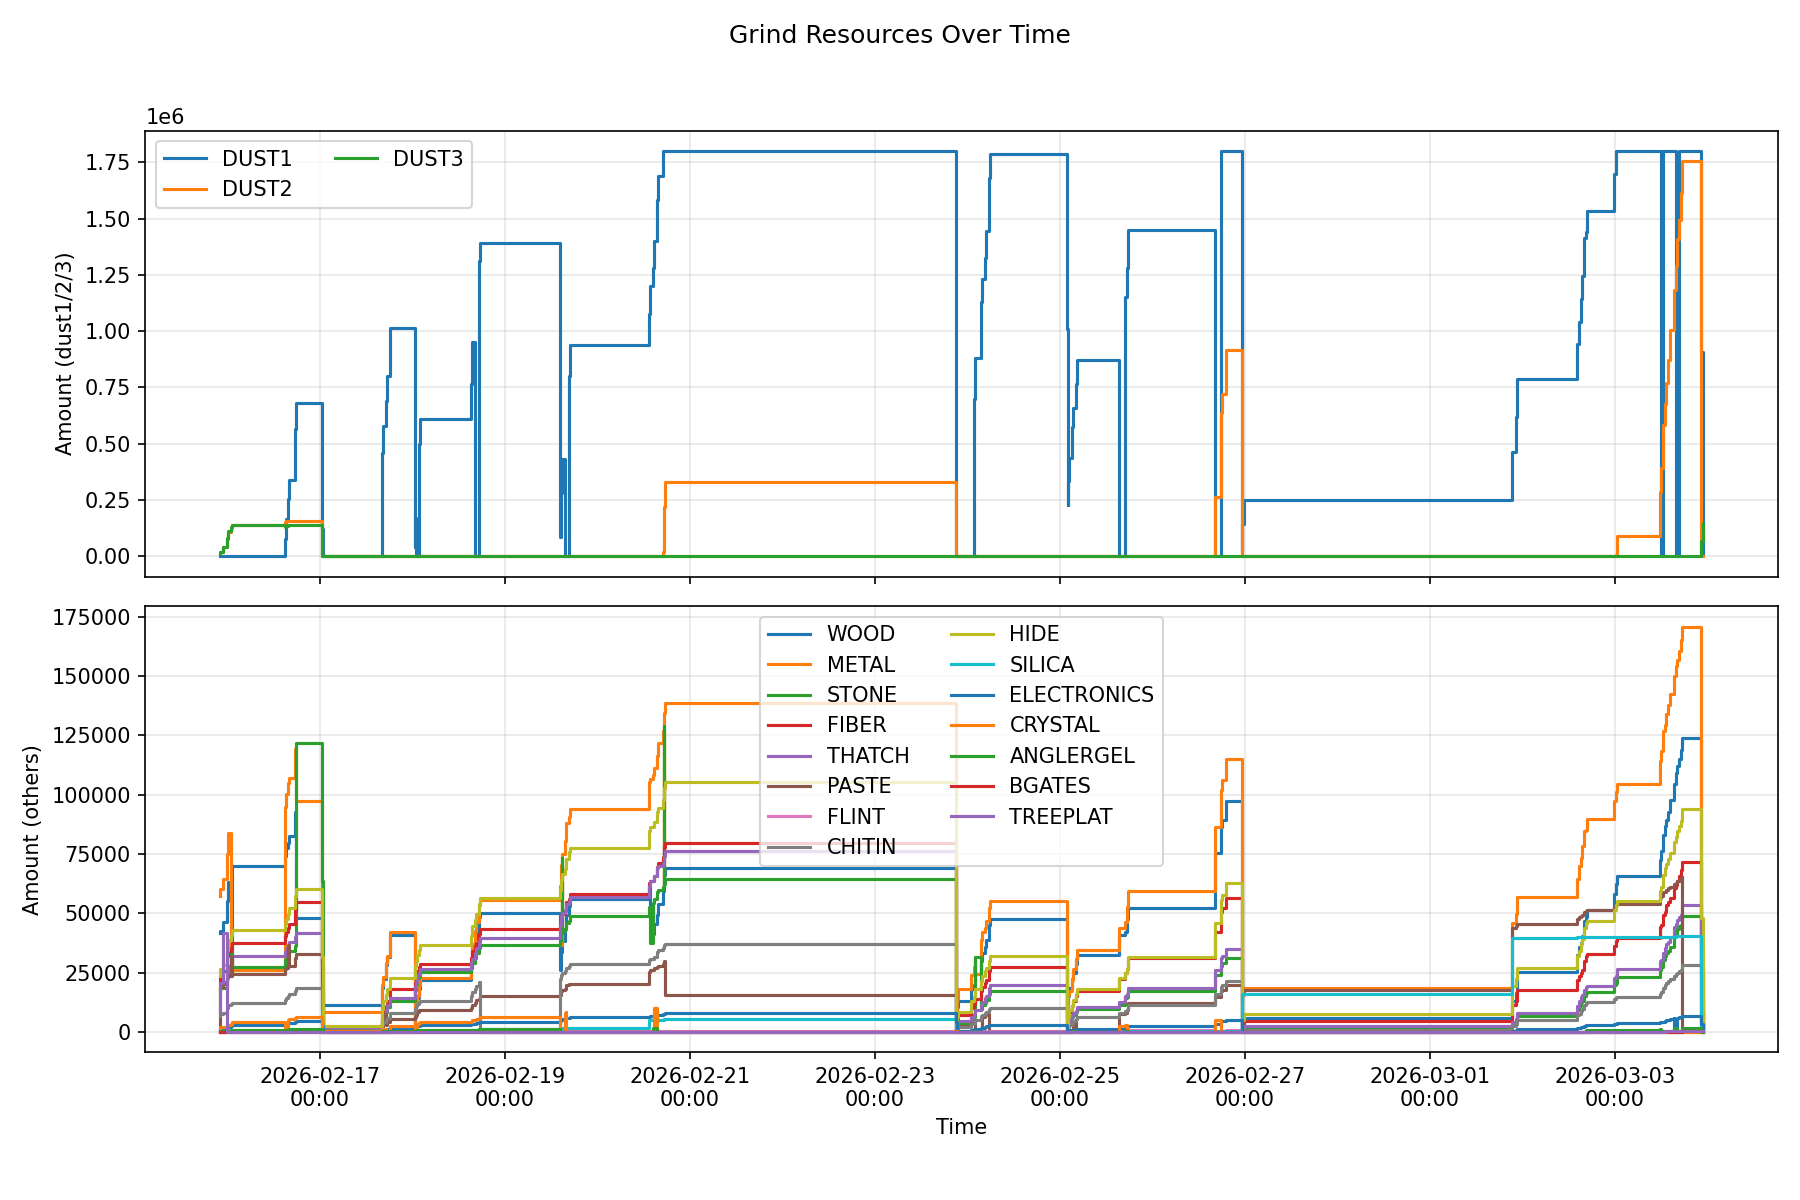
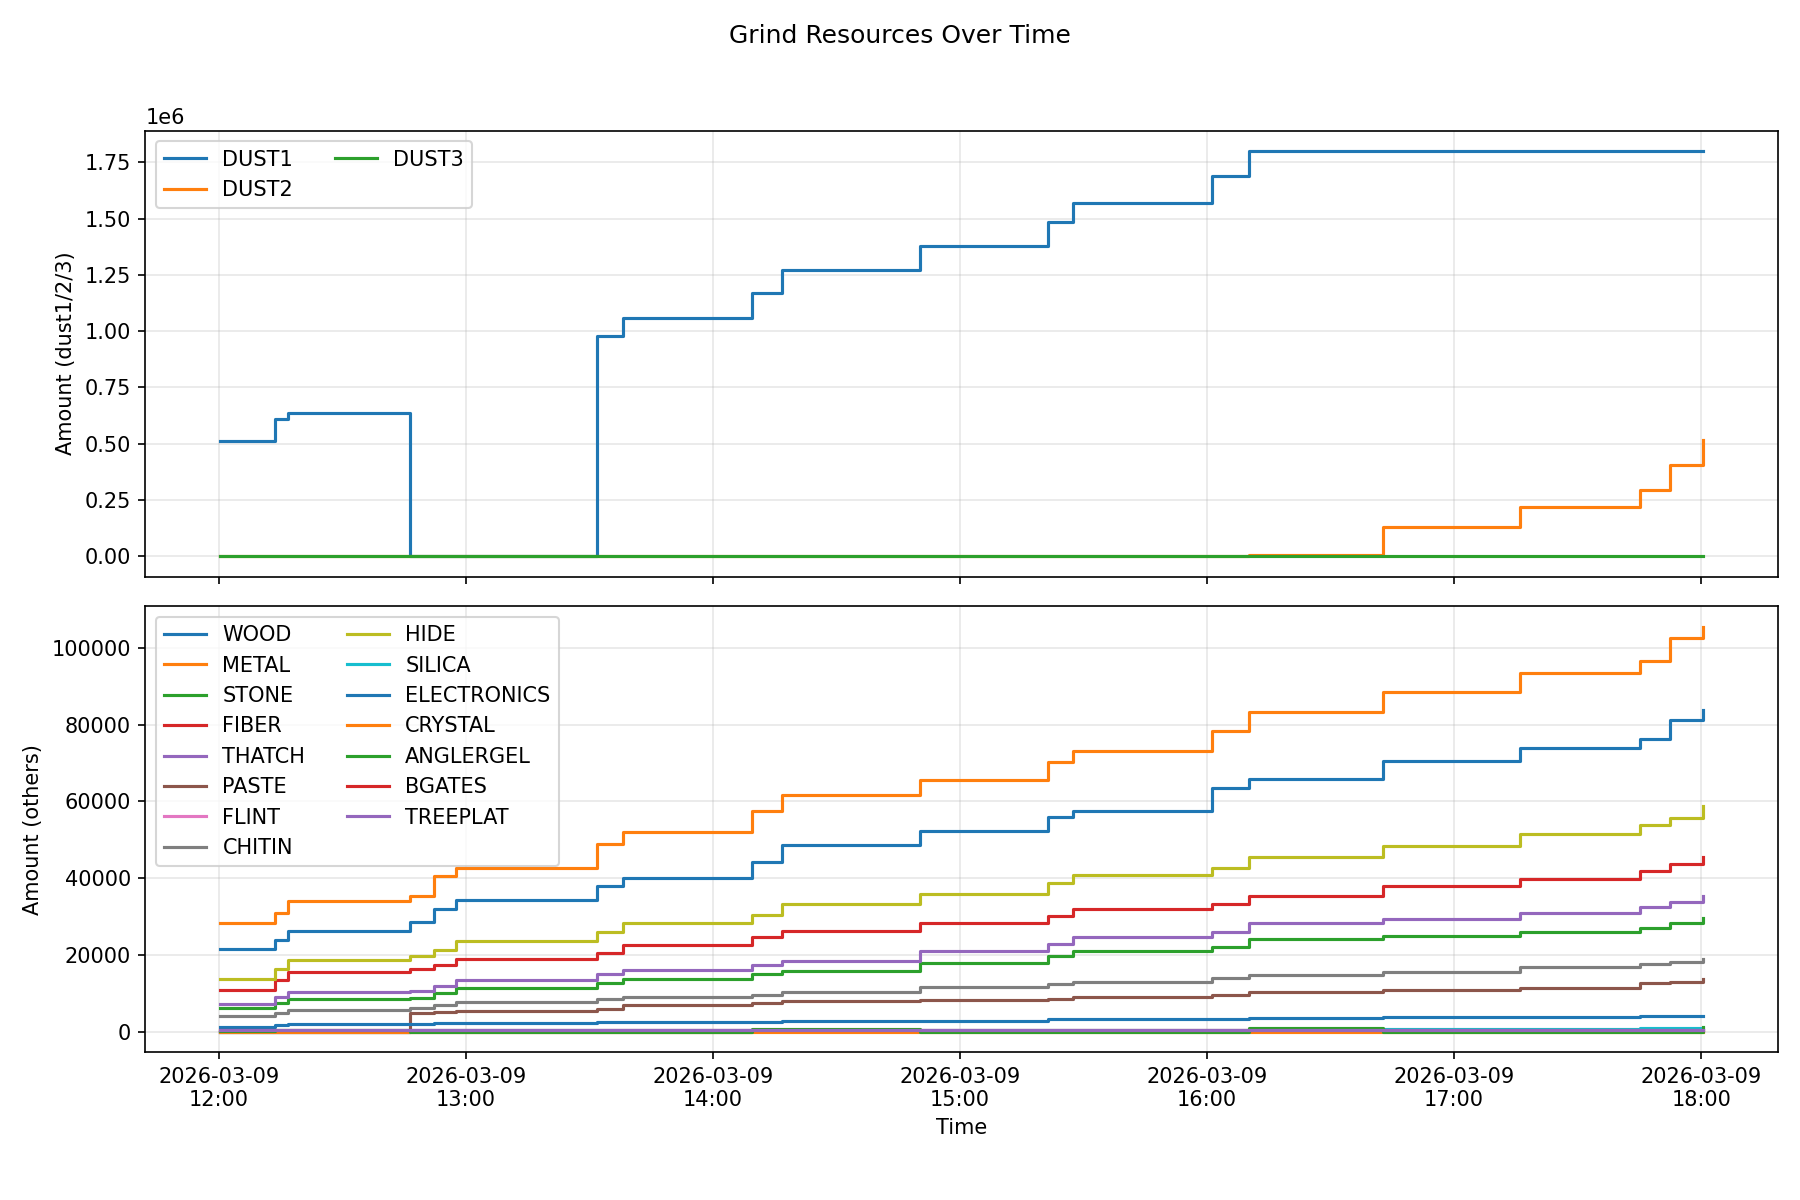
changed plotting and gitnore

diff --git a/logs/plot_logs.py b/logs/plot_logs.py
@@ -1,6 +1,11 @@
+
+# === Plot Range Option ===
+# Set to '24h', '7d', or '30d' to plot last 24 hours, 7 days, or 30 days. Set to None to plot all data.
+TIME_RANGE = '24h'  # Options: '24h', '7d', '30d', or None
+
 import os
 import sys
-from datetime import datetime
+from datetime import datetime, timedelta
 
 
 def load_data(logs_dir):
@@ -151,6 +156,7 @@ def plot_series(timestamps, series, cols, output_path=None):
 
 
 def main():
+
 	# Allow running from anywhere
 	script_dir = os.path.dirname(os.path.abspath(__file__))
 	logs_dir = script_dir
@@ -160,6 +166,27 @@ def main():
 	except Exception as e:
 		print(f"Error loading data: {e}")
 		sys.exit(1)
+
+	# === Filter by TIME_RANGE ===
+	if TIME_RANGE is not None:
+		now = datetime.now()
+		if TIME_RANGE == '24h':
+			cutoff = now - timedelta(hours=24)
+		elif TIME_RANGE == '7d':
+			cutoff = now - timedelta(days=7)
+		elif TIME_RANGE == '30d':
+			cutoff = now - timedelta(days=30)
+		else:
+			print(f"Unknown TIME_RANGE: {TIME_RANGE}, using all data.")
+			cutoff = None
+		if cutoff:
+			# Find indices where timestamp >= cutoff
+			filtered = [(ts, {col: series[col][i] for col in cols})
+						for i, ts in enumerate(timestamps) if ts >= cutoff]
+			if filtered:
+				timestamps = [ts for ts, _ in filtered]
+				for col in cols:
+					series[col] = [row[col] for _, row in filtered]
 
 	output_path = os.path.join(logs_dir, "grind_stats.png")
 	try:
